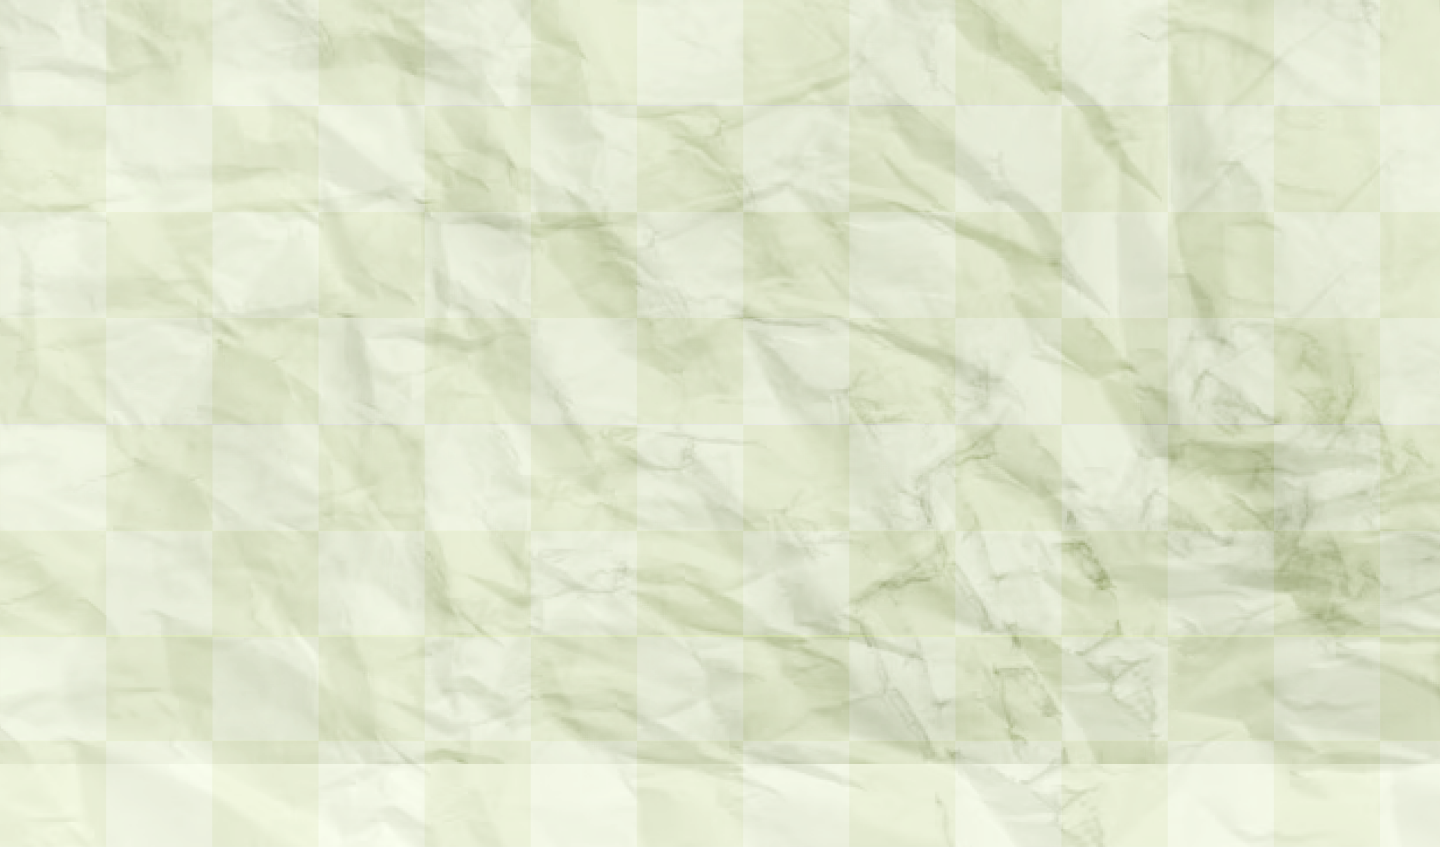
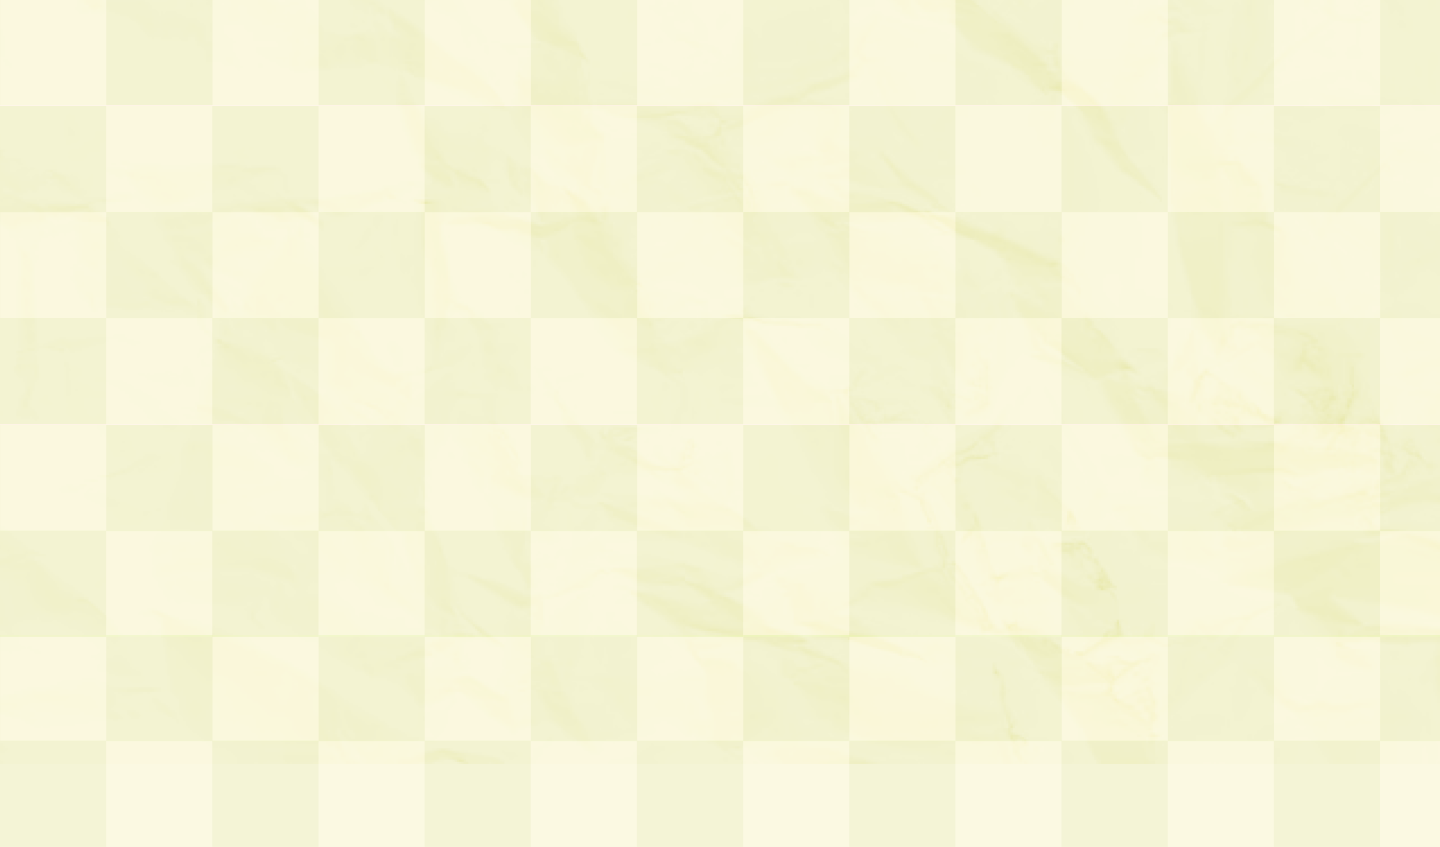
fix: resize bg, change bg, and responsivity regis page

diff --git a/src/modules/register-module/detail-event-section.tsx b/src/modules/register-module/detail-event-section.tsx
@@ -15,7 +15,7 @@ const DetailEventSection = ({ scrollToForm }: DetailEventSectionProps) => {
             <div className="flex min-[1070px]:flex-row flex-col items-center justify-between w-full overflow-x-hidden">
 
                 {/* KIRI */}
-                <div className="relative hidden md:block w-full max-w-[377px] h-[400px] md:h-[618px] shrink">
+                <div className="relative hidden lg:block w-full max-w-[377px] h-[400px] lg:h-[618px] shrink">
                     <Image
                         src="/assets/images/event-detail-vol2/left-img.svg"
                         alt="Yoga Session Left"
@@ -50,13 +50,13 @@ const DetailEventSection = ({ scrollToForm }: DetailEventSectionProps) => {
 
                             {/* Price Box */}
                             <div className="bg-[#EF3187] text-white rounded-xl border-[3px] border-dashed border-[#FFFFFF] ring-2 ring-white outline outline-4 outline-[#EF3187] py-3 w-full text-center shadow-lg z-0">
-                                <p className="text-xl md:text-3xl tracking-wide text-center md:text-left md:pl-5 text-[#E2F1AE]">
+                                <p className="text-xl lg:text-3xl tracking-wide text-center lg:text-left lg:pl-5 text-[#E2F1AE]">
                                     Only for <b>Rp179,000</b>
                                 </p>
                             </div>
 
                             <div>
-                                <BringYourOwnMatt className="w-[315px] h-[75px] md:w-[630px] md:h-[150px] -mt-3 md:-mt-18 md:-mr-150 relative z-10"/>
+                                <BringYourOwnMatt className="w-[315px] h-[75px] lg:w-[630px] lg:h-[150px] md:w-[378px] md:h-[90px] -mt-3 lg:-mt-18 lg:-mr-150 relative z-10"/>
                             </div>
 
                         </div>
@@ -64,7 +64,7 @@ const DetailEventSection = ({ scrollToForm }: DetailEventSectionProps) => {
                 </div>
 
                 {/* KANAN */}
-                <div className="relative hidden md:block w-full max-w-[377px] h-[400px] md:h-[618px] shrink">
+                <div className="relative hidden lg:block lg:block w-full max-w-[377px] h-[400px] lg:h-[618px] shrink">
                     <Image
                         src="/assets/images/event-detail-vol2/right-img.png"
                         alt="Yoga Session Right"

diff --git a/src/modules/register-module/register.tsx b/src/modules/register-module/register.tsx
@@ -70,7 +70,7 @@ export const RegisterModule = () => {
   return (
     <div>
       <DetailEventSection scrollToForm={scrollToForm} />
-      <div ref={formRef} className="hidden md:hidden min-h-screen bg-[#A6C0FF]" style={{ backgroundImage: "url('/assets/images/bg-regist.png')" }}>
+      <div ref={formRef} className="hidden md:hidden min-h-screen bg-[#A6C0FF] bg-cover bg-center" style={{ backgroundImage: "url('/assets/images/bg-regist.png')" }}>
         <UpperBorder/>
         <main className="py-28 md:w-1/2 mx-auto flex flex-col items-center md:px-0 px-3">
           <form className="bg-[#FEF6EB] flex flex-col items-center rounded-2xl md:px-12 px-6 py-12 gap-6 w-full border border-[#1C1719]" onSubmit={handleSubmit}>
